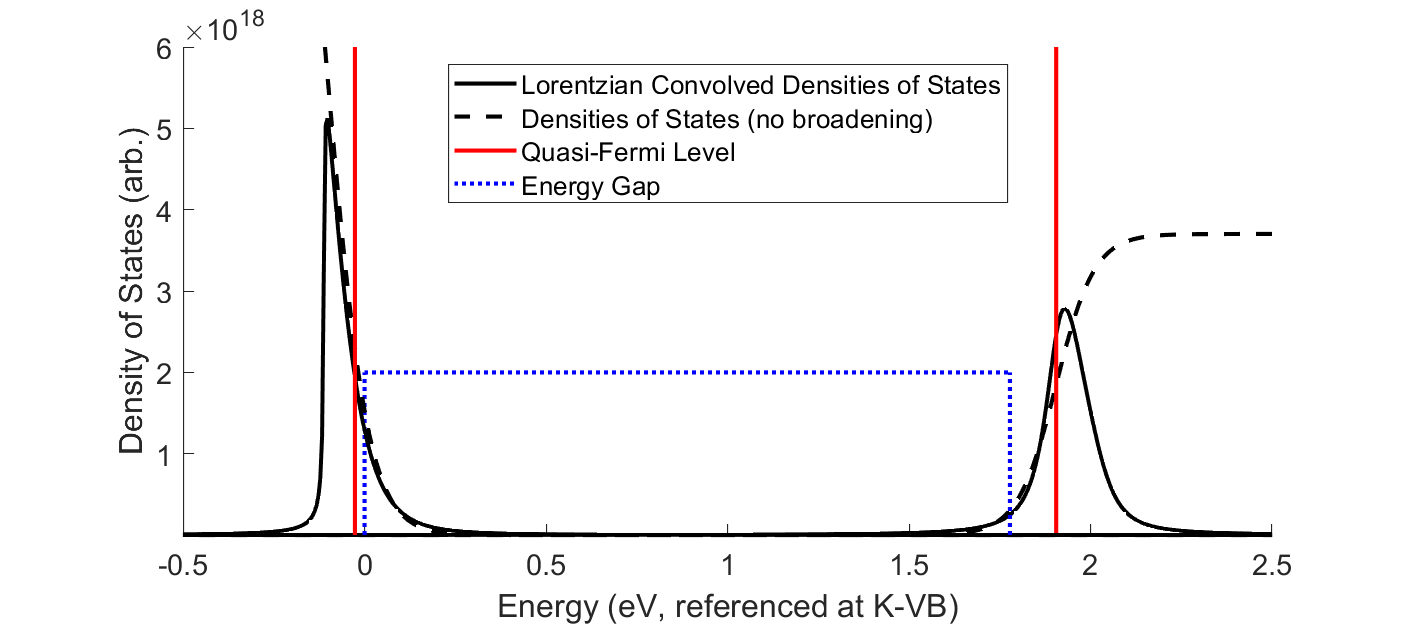
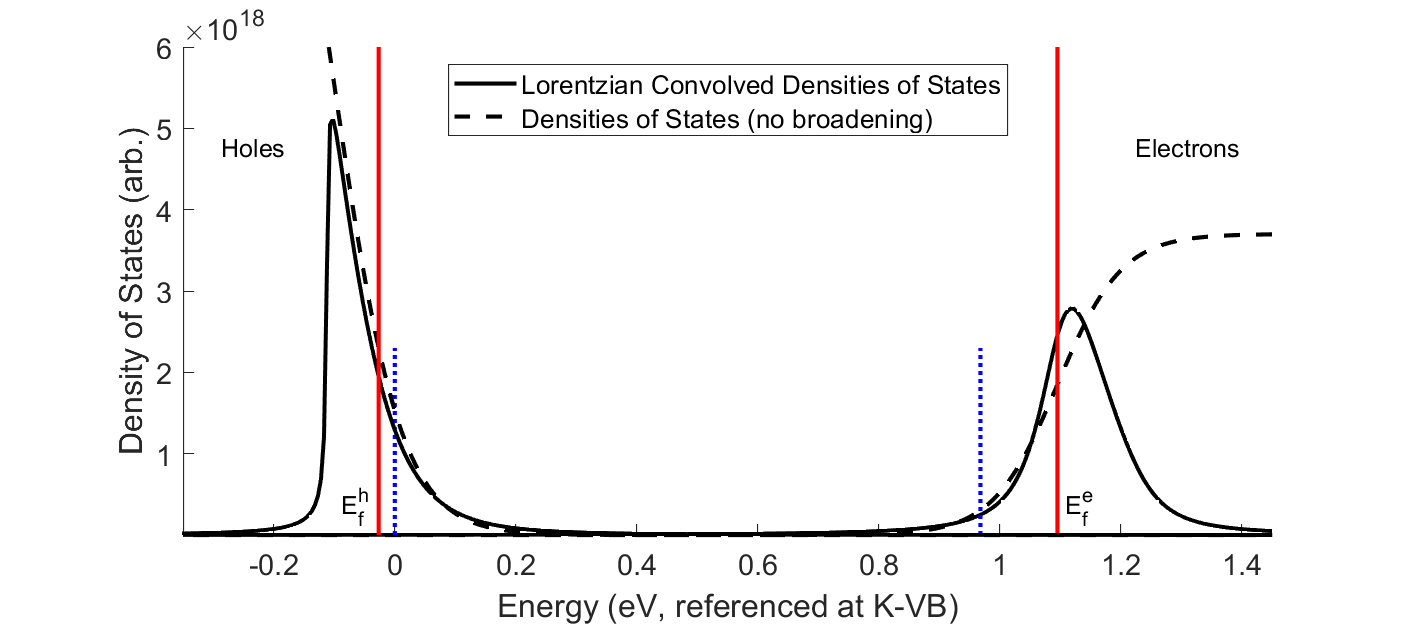
Updated DOS and PL data figures (fig1, fig2) for use with illustrator. Saved to SVG formats, fonts still not working as expected, changing manually in illustrator.
Scaled DOS plot

diff --git a/Version 12.1/Figure_1_Schematic_Plots.m b/Version 12.1/Figure_1_Schematic_Plots.m
@@ -1,4 +1,16 @@
+%%
 
+load LatticeExpVSPower.mat LatticeExpVSPower 
+load TempVsPower.mat TempVsPower
+
+
+%% Calibrate Sample Temperature to Percent Strain Using Raman Data
+
+LatticeExpVSPower(:,1) = flipud(LatticeExpVSPower(:,1));
+strain_inset = LatticeExpVSPower(1:6,1);
+temp_inset = TempVsPower(1:6,1);
+
+%%
 
 clear fit M1 M2
 
@@ -135,20 +147,13 @@ pad = 0.06;
 
 
 
+figure('Renderer', 'painters', 'Position', [10 10 1200 600])
+set(gcf,'defaultAxesFontName','Arial','defaultTextFontName','Arial')
+axes('Position',[0.001 0.001 0.498 0.998],'xtick',[],'ytick',[],'box','on','handlevisibility','off')
+axes('Position',[0.5 0.001 0.498 0.998],'xtick',[],'ytick',[],'box','on','handlevisibility','off')
 
-figure('Renderer', 'painters', 'Position', [10 10 1400 450])
-%figure('units','inch','position',[0,0,3.3,2*3.3/3]);
 
-axes('Position',[0.001 0.001 0.333 0.998],'xtick',[],'ytick',[],'box','on','handlevisibility','off')
-axes('Position',[0.333 0.001 0.333 0.998],'xtick',[],'ytick',[],'box','on','handlevisibility','off')
-axes('Position',[0.666 0.001 0.333 0.998],'xtick',[],'ytick',[],'box','on','handlevisibility','off')
-
-left_color = [0 0 0];
-right_color = [0 0 0];
-ax_height_start = 0.18;
-ax_height = 0.77;
-
-h1 = axes('Position',[0.05 ax_height_start 0.255 ax_height]);
+h1 = axes('Position',[0.07 0.13 0.38 0.80]);
 set(gca,'FontSize',fontsize,'CLim',[power_vec(startfile) power_vec(21)])
 
 m_color = (256-1)/(power_vec(21)-power_vec(1));
@@ -182,55 +187,40 @@ c = colorbar(gca);
 c.Label.String = 'Power Density (kW/cm^2)';
 hold off
 
-
-h3 = axes('Position',[0.72 ax_height_start 0.26 ax_height]);
+h2 = axes('Position',[0.57 0.13 0.4 0.80]);
 set(gca,'FontSize',fontsize)
 hold on
-plot(h3,M(:,1),M(:,2),'-o','LineWidth',2);
-plot(h3,M(:,1),M(:,3),'-^','LineWidth',2);
-plot(h3,M(:,1),M(:,2) - M(:,4),'-s','LineWidth',2);
-plot(h3,M(:,1),M(:,3) - M(:,4),'-d','LineWidth',2);
+plot(h2,M(:,1),M(:,2),'-o','LineWidth',2);
+plot(h2,M(:,1),M(:,3),'-^','LineWidth',2);
+plot(h2,M(:,1),M(:,2) - M(:,4),'-d','LineWidth',2);
+plot(h2,M(:,1),M(:,3) - M(:,4),'-s','LineWidth',2);
 ylabel('Energy Gap (eV)')
 xlabel('Sample Strain (%)')
-legend('K(VB)-K(CB)','K(VB)-Q(CB)','\Gamma(VB)-K(CB)','\Gamma(VB)-Q(CB)','Location','SouthWest')
+legend('K(VB)-K(CB)','K(VB)-Q(CB)','\Gamma(VB)-K(CB)','\Gamma(VB)-Q(CB)','Location','SouthWest','FontSize',12)
 xlim([low-pad high+pad])
-ylim([1.35, 2.0])
+ylim([1.35, 2.17])
 dim = [0.007 0.88 0.1 0.1];
 str = {'(a)'};
 annotation('textbox',dim,'String',str,'FitBoxToText','on','FontSize',20,'EdgeColor','none');
-dim = [0.340 0.88 0.1 0.1];
+dim = [0.507 0.88 0.1 0.1];
 str = {'(b)'};
-annotation('textbox',dim,'String',str,'FitBoxToText','on','FontSize',20,'EdgeColor','none');
-dim = [0.673 0.88 0.1 0.1];
-str = {'(c)'};
 annotation('textbox',dim,'String',str,'FitBoxToText','on','FontSize',20,'EdgeColor','none');
 hold off
 
 
-set(gcf,'defaultAxesColorOrder',[left_color; right_color]);
-
-h2 = axes('Position',[0.40 ax_height_start+0.01 0.20 ax_height]);
-set(gca,'FontSize',fontsize)
-range = 9:15;
-ylim_temp = [250, 650];
-ylim_strain = polyval(f1,ylim_temp);
-strain_list = polyval(f1,allentries(range,3));
-yyaxis left
-plot(power_vec(range),allentries(range,3),'-bo','LineWidth',2);
-ylim(ylim_temp)
-xlim([2.3, 4.2])
+h3 = axes('Position',[0.78 0.785 0.2 0.19]);
+set(gca,'FontSize',12,'box','on')
+T_list = linspace(260,620,10);
+hold on
+plot(polyval(f1,T_list),T_list,'--')
+plot(strain_inset, temp_inset, '*')
 ylabel('Temperature (K)')
-
-yyaxis right
-plot(power_vec(range),strain_list,'-bo','LineWidth',1);
-ylim(ylim_strain)
-ylabel('Strain (%)')
-xlabel('Power Density (kW/cm^2)')
-
-
-saveas(gcf,'fig_fig1.png')
-
-%%
+xlabel('Sample Strain (%)')
+ylim([250 620])
+xlim([0.5 2.0])
+legend('Exp.','Fit','Location','NorthWest')
+hold off
 
 
-
+%saveas(gcf,'fig_fig1.png')
+saveas(gcf,'fig_fig1','svg')

diff --git a/Version 12.1/densityofstate_plotter.m b/Version 12.1/densityofstate_plotter.m
@@ -90,40 +90,57 @@ xfit_g_e2 = E_opt + flipud(xfit_g);
 xfit_g_h1 = -E_off_h + xfit_g;
 xfit_g_h2 = -E_off_h + xfit_g;
 
-u1_vec(u1_vec < 1e15) = -1;
-v1_vec(v1_vec < 1e15) = -1;
-u2(u2 < 1e15) = -1;
-v2(v2 < 1e15) = -1;
+u1_vec(u1_vec < 1e16) = -1e18;
+v1_vec(v1_vec < 1e16) = -1e18;
+u2(u2 < 1e16) = -1e18;
+v2(v2 < 1e16) = -1e18;
 
-scale = 1;
+scale = 1e-18;
 
-u2 = scale*u2;
-v2 = scale*v2;
+u1_vec = u1_vec*scale;
+v1_vec = v1_vec*scale;
+u2 = u2*scale;
+v2 = v2*scale;
 
-%E_gap = E_opt + E_bind - E_off_h - E_BGR - E_thermal;
+E_gap = E_opt - E_off_h - 0.11 - 0.7; %E_opt - E_off - E_thermal - E_BGR
 
-E_gap = E_opt - E_off_h;
-
-f = figure('Position',[100 100 900 400]);
+f = figure('Position',[100 100 1000 400]);
+set(gcf,'defaultAxesFontName','Arial','defaultTextFontName','Arial')
 hold on
 plot(E_gap + 2*E_fermi_e + flipud(xfit_g),u1_vec,'k-','LineWidth',2); %convolved electron
 plot(E_gap + 2*E_fermi_e + flipud(xfit_g),u2,'k--','LineWidth',2); %raw electron
 plot([E_gap + 2*E_fermi_e + -E_fermi_e, E_gap + 2*E_fermi_e + -E_fermi_e],[0 6e18],'r-','LineWidth',2) %Ef electron
-plot([0, 0],[0, 2e18],'b:','LineWidth',2) %gap
+
+plot([0, 0],[0, 2.3],'b:','LineWidth',2) %gap
+plot([E_gap, E_gap],[0, 2.3],'b:','LineWidth',2)
+
 plot(-E_off_h + xfit_g,v1_vec,'k-','LineWidth',2);
 plot(-E_off_h + xfit_g,v2,'k--','LineWidth',2);
 plot([-E_off_h - E_fermi_h,-E_off_h - E_fermi_h],[0 6e18],'-r','LineWidth',2)
-plot([E_gap, E_gap],[0, 2e18],'b:','LineWidth',2)
-plot([0, E_gap],[2e18, 2e18],'b:','LineWidth',2)
-xlim([-0.5 2.5])
-ylim([1e10 6e18])
-legend('Lorentzian Convolved Densities of States','Densities of States (no broadening)','Quasi-Fermi Level','Energy Gap','Location','North')
+
+%plot([0, E_gap],[2e18, 2e18],'b:','LineWidth',2)
+xlim([-0.35 1.45])
+ylim([0 6])
+%legend('Lorentzian Convolved Densities of States','Densities of States (no broadening)','Quasi-Fermi Level','Energy Gap','Location','North')
+legend('Lorentzian Convolved Densities of States','Densities of States (no broadening)','Location','North')
 xlabel('Energy (eV, referenced at K-VB)')
-ylabel('Density of States (arb.)')
+ylabel('Density of States (arb. units)')
 set(gca,'FontSize',14)
+dim = [0.15 0.7 0.1 0.1];
+str = {'Holes'};
+annotation('textbox',dim,'String',str,'FitBoxToText','on','FontSize',12,'EdgeColor','none');
+dim = [0.80 0.7 0.1 0.1];
+str = {'Electrons'};
+annotation('textbox',dim,'String',str,'FitBoxToText','on','FontSize',12,'EdgeColor','none');
+dim = [0.235 0.14 0.1 0.1];
+str = {'E_f^h'};
+annotation('textbox',dim,'String',str,'FitBoxToText','on','FontSize',12,'EdgeColor','none');
+dim = [0.75 0.14 0.1 0.1];
+str = {'E_f^e'};
+annotation('textbox',dim,'String',str,'FitBoxToText','on','FontSize',12,'EdgeColor','none');
 hold off
 
-saveas(gcf,'fig_DOS.png')
+saveas(gcf,'fig_DOS_arial','svg')
 
 
 % figure();
